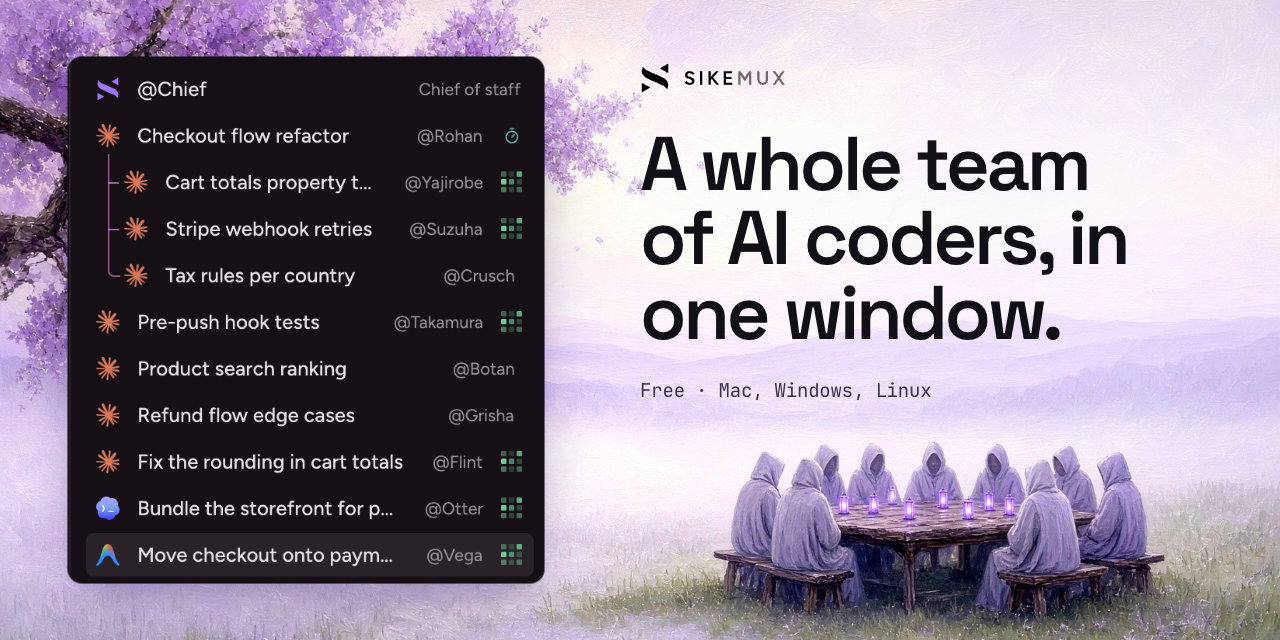
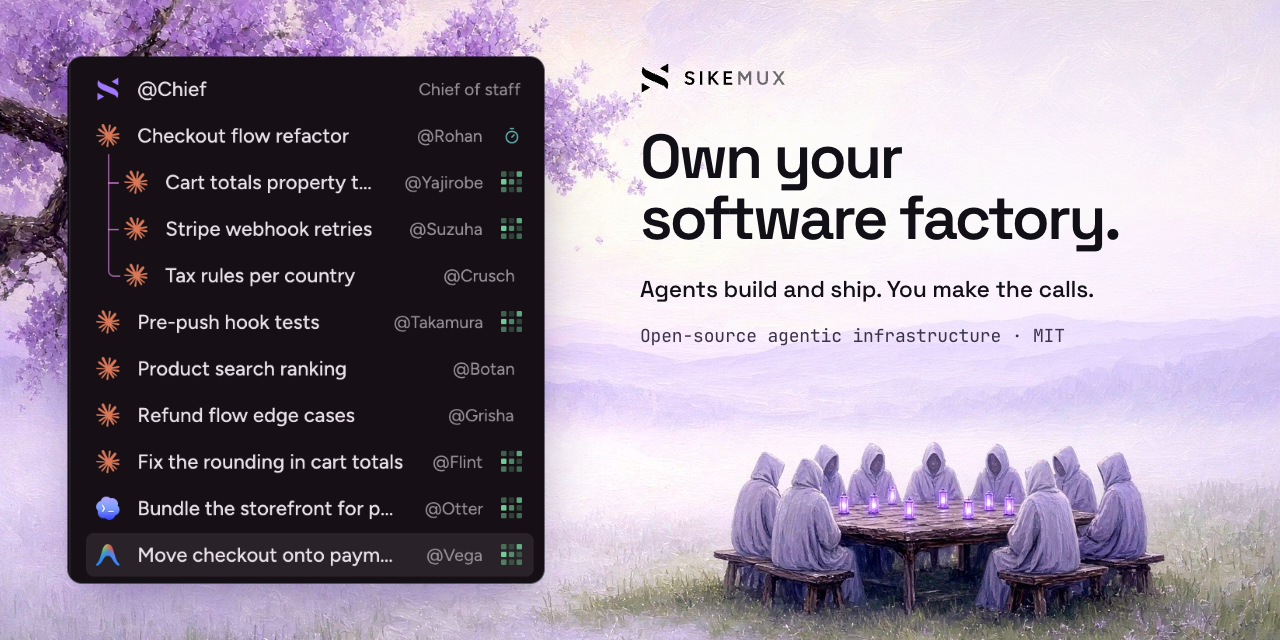
feat(site): switch the line to own your software factory
Hero, page titles, descriptions and share cards in English, Chinese and
Japanese carry the new line. The share cards take a new version so
cached previews refresh.

Agent: Jinta (claude 2.1.331, default, sikemux 0.6.4-nightly.268, session 0a67e0a5-655e-455b-bb0d-517a42169972, chat agent-36bb0c9e007044d785453616e96f9602, host 03c112f7c38a48c2)
Agent-Signature: 4D7oosggEP9EMp/3fXf4dYTxMP537oE3RqfxFy5yzAA96ExHdlUwDq+8SQTiD6RFFBdEAUeu9BGQruMiBiMWBA

Changed region(s): [[0.5, 0.1875, 0.9062, 0.5312], [0.5625, 0.5938, 0.7188, 0.625], [0.5, 0.5938, 0.5312, 0.625]]

diff --git a/src/i18n/ja.ts b/src/i18n/ja.ts
@@ -5,9 +5,9 @@ export const ja: Copy = {
     lang: "ja",
     langName: "日本語",
     home: {
-        title: "Sikemux · AI コーダーのチームを、ひとつのウィンドウに",
+        title: "Sikemux · 自前のソフトウェア工場",
         description:
-            "AI コーダーのチームを、ひとつのウィンドウに。Sikemux は Mac、Windows、Linux 向けの無料・MIT ライセンスのネイティブアプリ。Claude Code や Codex を手持ちのプランで動かせます。",
+            "自前のソフトウェア工場。作って届けるのはエージェント、決めるのはあなた。Sikemux は Mac、Windows、Linux で Claude Code や Codex を手持ちのプランのまま動かせる、無料・MIT ライセンスのネイティブアプリです。",
         featureList: [
             "Claude Code、Codex、OpenCode、Hermes、Grok、OMP、Pi を手持ちのプランで実行",
             "エージェントごとに本物のブラウザタブ",
@@ -18,7 +18,7 @@ export const ja: Copy = {
             "アプリを終了してもターミナルとエージェントは動き続ける",
             "MacBook のノッチやスマホアプリからエージェントに返事",
         ],
-        shareAlt: "Sikemux：AI コーダーのチームを、ひとつのウィンドウに。Claude、Codex、Antigravity が並んで動くエージェント一覧と昼の風景画。",
+        shareAlt: "Sikemux：自前のソフトウェア工場。作って届けるのはエージェント、決めるのはあなた。Claude、Codex、Antigravity が並んで動くエージェント一覧と昼の風景画。",
         operatingSystem: "macOS 11 以降、Linux、Windows 10 以降",
     },
     nav: {
@@ -42,8 +42,9 @@ export const ja: Copy = {
         copyLabel: "インストールコマンドをコピー",
     },
     hero: {
-        title: { first: "AI コーダーのチームを、", second: "", chip: "ひとつのウィンドウに。" },
-        lede: "Claude Code、Codex などが、ひとつのネイティブアプリに並んで動きます。誰が作業中で、誰が詰まっていて、誰があなたを待っているのかがひと目でわかります。",
+        title: { first: "自前の", chip: "ソフトウェア工場。" },
+        tag: "オープンソースのエージェント基盤 · MIT",
+        lede: "作って届けるのはエージェント、決めるのはあなた。チーフが各ホストのエージェントに仕事を振り、スマホからも追えます。共通ルール、レビュー、リリース前の確認つき。",
         download: "Mac 版をダウンロード",
         star: "Star する",
         aboutSize: "約 30 MB",
@@ -59,7 +60,7 @@ export const ja: Copy = {
     },
     hub: {
         tag: "しくみ",
-        title: { lead: "自前の AI は持ちません。", chip: "あなたの AI を動かします。" },
+        title: { lead: "独自の AI は持ちません。", chip: "あなたの AI を動かします。" },
         body: [
             "エージェントはいつもどおりインストールしてサインインするだけ。Sikemux がそれを見つけ、あなたのログインで起動します。このパソコンでも、つないだどのホストでも。",
             "様子を見るのも返事をするのも、アプリ、ノッチ、スマホから。",
@@ -182,7 +183,7 @@ export const ja: Copy = {
         entries: [
             {
                 question: "Sikemux をひとことで言うと？",
-                answer: "AI コーディングエージェントと一緒にひとつのプロジェクトを進める、Mac、Windows、Linux 向けのデスクトップアプリです。エージェントがコードを書いてテストし、あなたは見て、レビューして、リリースする。エディタ、ターミナル、Git、ブラウザを別々のアプリで行き来する必要はありません。",
+                answer: "自前のソフトウェア工場になる、無料・オープンソースのデスクトップアプリです。手元のマシンとプランでコーディングエージェントが開発、テスト、リリースまで進め、決めるのはあなたです。",
             },
             {
                 question: "どのエージェントで使えますか？",
@@ -215,7 +216,7 @@ export const ja: Copy = {
         all: "すべてのダウンロード",
     },
     footer: {
-        tagline: "AI コーダーのチームを、ひとつのウィンドウに。",
+        tagline: "自前のソフトウェア工場。",
         product: "製品",
         help: "ヘルプ",
         company: "会社",

diff --git a/src/i18n/zh.ts b/src/i18n/zh.ts
@@ -5,9 +5,9 @@ export const zh: Copy = {
     lang: "zh-CN",
     langName: "中文",
     home: {
-        title: "Sikemux · 一整支 AI 编程团队，尽在一个窗口",
+        title: "Sikemux · 你自己的软件工厂",
         description:
-            "一整支 AI 编程团队，尽在一个窗口。Sikemux 是免费、MIT 开源的 Mac、Windows 与 Linux 原生应用，用你自己的订阅运行 Claude Code、Codex 等编程智能体。",
+            "你自己的软件工厂。智能体开发并交付，你来拍板。Sikemux 是免费、MIT 开源的 Mac、Windows 与 Linux 原生应用，用你自己的订阅运行 Claude Code、Codex 等编程智能体。",
         featureList: [
             "用你自己的订阅运行 Claude Code、Codex、OpenCode、Hermes、Grok、OMP 和 Pi",
             "每个智能体都有一个真正的浏览器标签页",
@@ -18,7 +18,7 @@ export const zh: Copy = {
             "退出应用后，终端和智能体继续运行",
             "在 MacBook 刘海或手机应用上回复智能体",
         ],
-        shareAlt: "Sikemux：一整支 AI 编程团队，尽在一个窗口。应用的智能体侧栏展示 Claude、Codex 和 Antigravity 并行协作，背景为日光画作。",
+        shareAlt: "Sikemux：你自己的软件工厂。智能体开发并交付，你来拍板。应用的智能体侧栏展示 Claude、Codex 和 Antigravity 并行协作，背景为日光画作。",
         operatingSystem: "macOS 11 及以上，Linux，Windows 10 及以上",
     },
     nav: {
@@ -42,8 +42,9 @@ export const zh: Copy = {
         copyLabel: "复制安装命令",
     },
     hero: {
-        title: { first: "一整支 AI", second: "编程团队，", chip: "尽在一个窗口。" },
-        lede: "Claude Code、Codex 等编程智能体，并排跑在同一个原生应用里。谁在干活、谁卡住了、谁在等你，一眼就能看到。",
+        title: { first: "你自己的", chip: "软件工厂。" },
+        tag: "开源智能体基础设施 · MIT",
+        lede: "智能体开发并交付，你来拍板。项目 Chief 把活派给你各台主机上的编程智能体，你在手机上也能跟进；规则共用，审阅和发布都有把关。",
         download: "下载 Mac 版",
         star: "点个 Star",
         aboutSize: "约 30 MB",
@@ -182,7 +183,7 @@ export const zh: Copy = {
         entries: [
             {
                 question: "一句话说，Sikemux 是什么？",
-                answer: "一个支持 Mac、Windows 和 Linux 的桌面应用，你和 AI 编程智能体一起做同一个项目：它们写代码、测代码，你来看、审阅、发布，不用在编辑器、终端、Git 和浏览器几个应用之间来回切换。",
+                answer: "一个免费开源的桌面应用，就是你自己的软件工厂：编程智能体跑在你的机器上，用你的订阅开发、测试、交付，由你来拍板。",
             },
             {
                 question: "支持哪些智能体？",
@@ -219,7 +220,7 @@ export const zh: Copy = {
         all: "全部下载",
     },
     footer: {
-        tagline: "一整支 AI 编程团队，尽在一个窗口。",
+        tagline: "你自己的软件工厂。",
         product: "产品",
         help: "帮助",
         company: "公司",

diff --git a/src/i18n/en.ts b/src/i18n/en.ts
@@ -3,9 +3,9 @@ export const en = {
     lang: "en",
     langName: "English",
     home: {
-        title: "Sikemux · a whole team of AI coders, in one window",
+        title: "Sikemux · own your software factory",
         description:
-            "A whole team of AI coders, in one window. Sikemux runs Claude Code, Codex and more on your own plans in a free, MIT native app for Mac, Windows and Linux.",
+            "Own your software factory. Agents build and ship. You make the calls. A free, MIT native app that runs Claude Code and Codex on Mac, Windows and Linux.",
         featureList: [
             "Runs Claude Code, Codex, OpenCode, Hermes, Grok, OMP and Pi with your own plan",
             "A real browser tab for each agent",
@@ -16,7 +16,7 @@ export const en = {
             "Terminals and agents keep running after the app quits",
             "Answer agents from the MacBook notch or the phone app",
         ],
-        shareAlt: "Sikemux: a whole team of AI coders, in one window. The app's agent rail showing Claude, Codex and Antigravity working side by side over a daylight painting.",
+        shareAlt: "Sikemux: own your software factory. Agents build and ship, you make the calls. The app's agent rail showing Claude, Codex and Antigravity working side by side over a daylight painting.",
         operatingSystem: "macOS 11 or later, Linux, Windows 10 or later",
     },
     nav: {
@@ -40,8 +40,9 @@ export const en = {
         copyLabel: "Copy the install command",
     },
     hero: {
-        title: { first: "A whole team of AI", second: "coders, ", chip: "in one window." },
-        lede: "Claude Code, Codex and more, side by side in one native app. See who’s working, who’s stuck and who needs you.",
+        title: { first: "Own your", chip: "software factory." },
+        tag: "Open-source agentic infrastructure · MIT",
+        lede: "Agents build and ship. You make the calls. A chief staffs coding agents across your hosts and phone, with shared rules, review and release gates.",
         download: "Download for Mac",
         star: "Star",
         aboutSize: "about 30 MB",
@@ -180,7 +181,7 @@ export const en = {
         entries: [
             {
                 question: "What is Sikemux, in one sentence?",
-                answer: "A desktop app for Mac, Windows and Linux where you work on a project together with AI coding agents: they write and test the code, and you watch, review and ship, without juggling an editor, terminals, Git and a browser in separate apps.",
+                answer: "A free, open-source desktop app that is your own software factory: coding agents build, test and ship your project on your machines and your plans, and you make the calls.",
             },
             {
                 question: "Which agents does it work with?",
@@ -213,7 +214,7 @@ export const en = {
         all: "All downloads",
     },
     footer: {
-        tagline: "A whole team of AI coders, in one window.",
+        tagline: "Own your software factory.",
         product: "Product",
         help: "Help",
         company: "Company",

diff --git a/src/pages/llms.txt.ts b/src/pages/llms.txt.ts
@@ -8,7 +8,7 @@ export const GET: APIRoute = ({ site }) => {
     const url = (path: string) => new URL(path, site).href;
     const body = `# Sikemux
 
-> A whole team of AI coders, in one window. Sikemux is a free, MIT-licensed native app for Mac, Windows and Linux. It runs the coding agents you already use (Claude Code, Codex, OpenCode, Hermes, Grok, OMP and Pi), signed in with your own plan, in one window with a code editor, terminals, Git review, a real browser tab for each agent, an iOS Simulator, and your GitHub, GitLab, Bitbucket, Jira, database, AWS, Rundeck, SigNoz and Bruno views. Sikemux has no AI of its own and never sends code anywhere except to the agent you choose.
+> Own your software factory. Agents build and ship. You make the calls. Sikemux is open-source agentic infrastructure: a free, MIT-licensed native app for Mac, Windows and Linux. It runs the coding agents you already use (Claude Code, Codex, OpenCode, Hermes, Grok, OMP and Pi), signed in with your own plan, in one window with a code editor, terminals, Git review, a real browser tab for each agent, an iOS Simulator, and your GitHub, GitLab, Bitbucket, Jira, database, AWS, Rundeck, SigNoz and Bruno views. Sikemux has no AI of its own and never sends code anywhere except to the agent you choose.
 
 - Download: ${url("/")} (macOS 11 or later on Apple Silicon, about 30 MB; Windows 10 22H2 or later on x64 and arm64, also through Scoop; Linux on x86_64 and arm64 as a .deb or AppImage from GitHub Releases, on Ubuntu 24.04, Debian 13 or newer)
 - Install from a terminal: \`${INSTALL_COMMAND}\`

diff --git a/src/lib/cards.ts b/src/lib/cards.ts
@@ -51,7 +51,7 @@ export const CARDS: Card[] = [
         label: "Compared",
         title: "Sikemux vs",
         chip: comparison.name,
-        body: `How a free agentic IDE for Claude Code and Codex compares with ${comparison.name}, the ${comparison.kind}.`,
+        body: `How Sikemux, the software factory you own, compares with ${comparison.name}, the ${comparison.kind}.`,
         visual: comparison.bytes === undefined ? HERO : ({ kind: "sizes", apps: [{ name: comparison.name, bytes: comparison.bytes }] } satisfies CardVisual),
     })),
     { path: "/brand", label: "Brand", title: "Sikemux", chip: "brand.", body: "The wordmark, the mark, the icon and the colours, to download.", visual: { kind: "brand" } },

diff --git a/src/styles/home.css b/src/styles/home.css
@@ -128,6 +128,10 @@ br + .chip {
 :lang(zh) .chip {
     word-break: keep-all;
 }
+:lang(zh) .chip,
+:lang(ja) .chip {
+    background-position-y: 0.09em;
+}
 :where(h1, h2, h3):has(.chip) {
     line-height: 1.12;
     text-wrap: balance;
